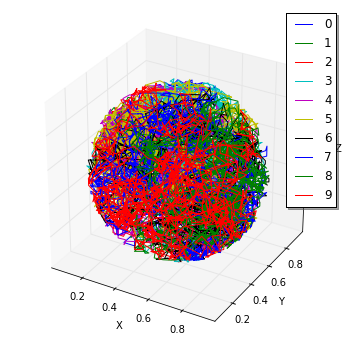
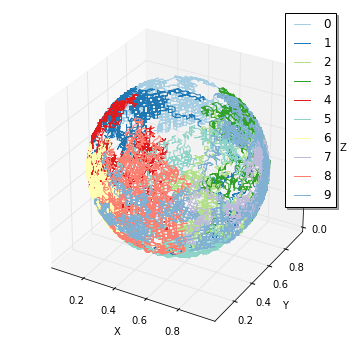
Simplified the example in README.md

diff --git a/README.md b/README.md
@@ -181,17 +181,13 @@ from ecell4 import *
 with species_attributes():
     A | {'D': '1', 'location': 'M'}
 
-m = get_model()
-
-surface = Sphere(Real3(0.5, 0.5, 0.5), 0.48).surface()
+surface = Sphere(ones() * 0.5, 0.5).surface()
 obs = FixedIntervalTrajectoryObserver(1e-4)
-factory = spatiocyte.SpatiocyteFactory(voxel_radius=0.005)
-run_simulation(0.3, model=m, y0={'A': 10}, structures={'M': surface},
-               factory=factory, observers=obs, return_type=None)
+run_simulation(
+    0.4, y0={'A': 10}, structures={'M': surface},
+    solver='spatiocyte', observers=obs, return_type=None)
 
-viz.plot_movie_of_trajectory(
-    obs, legend=False, noaxis=True, angle=(-60, 30, 6),
-    stride=60, rotate=(0, 1.5))
+viz.plot_trajectory(obs, interactive=False)
 ```
 
 ![png](https://raw.githubusercontent.com/ecell/ecell4/master/docs/images/hairball.png)
